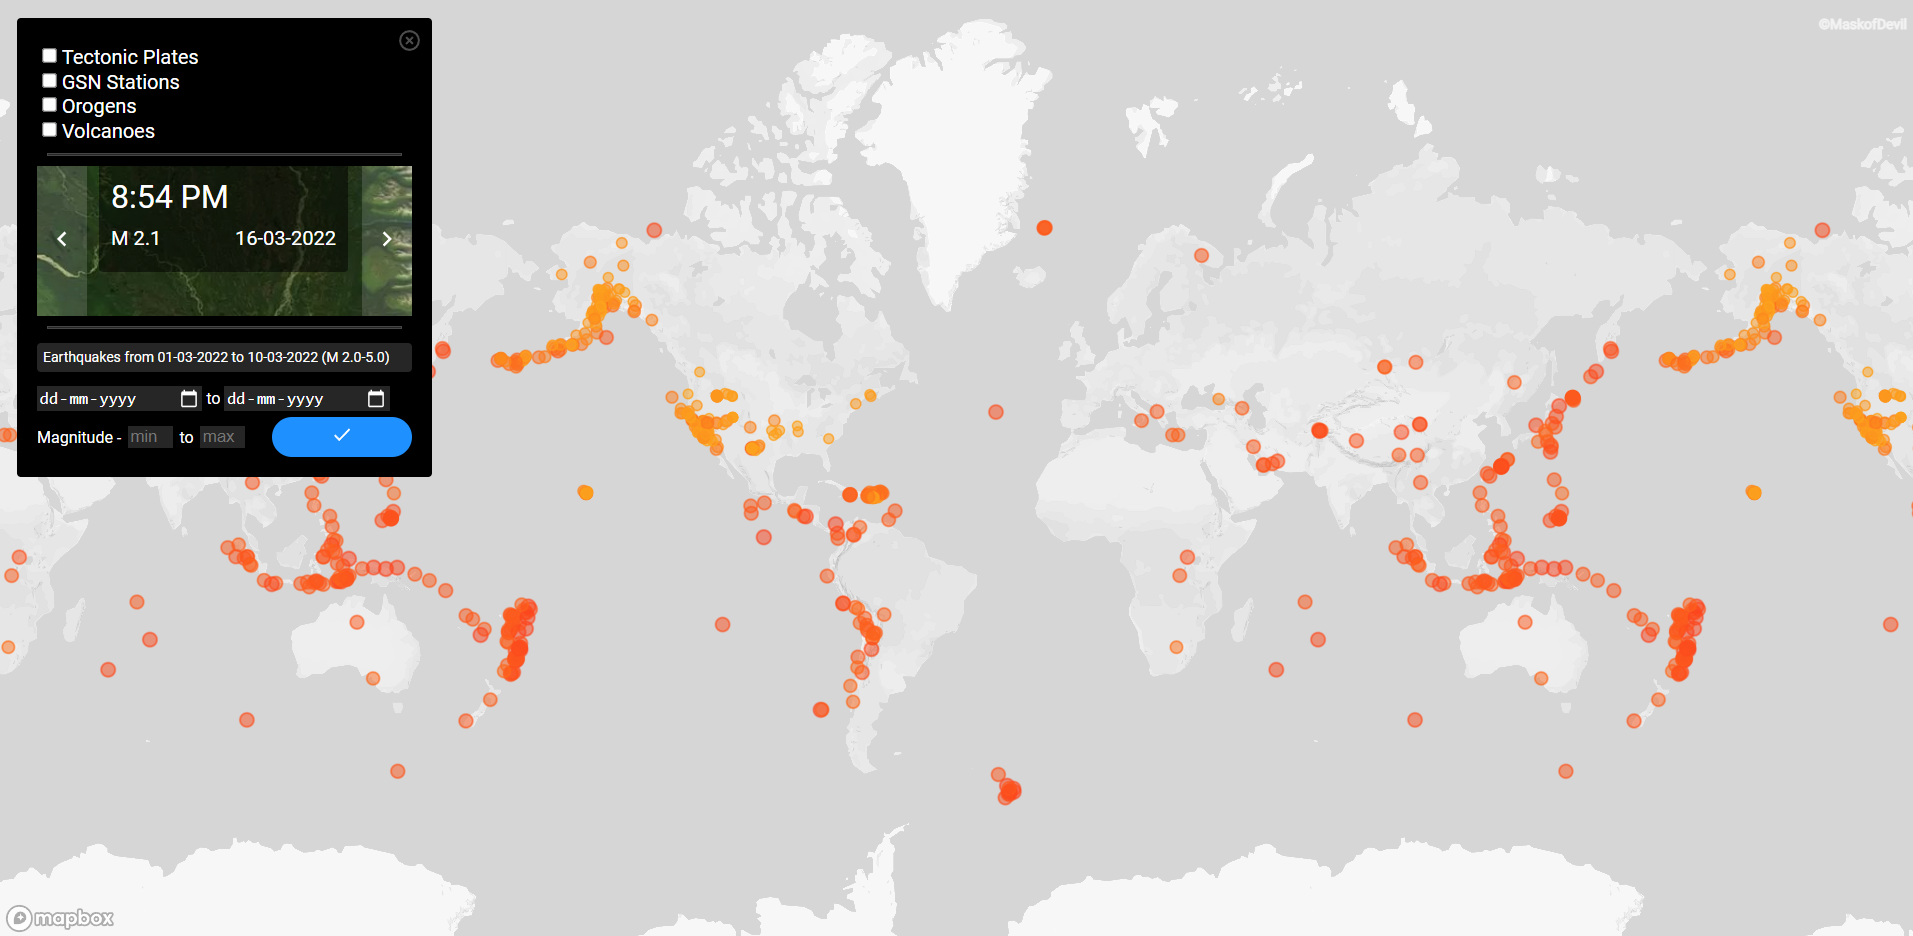
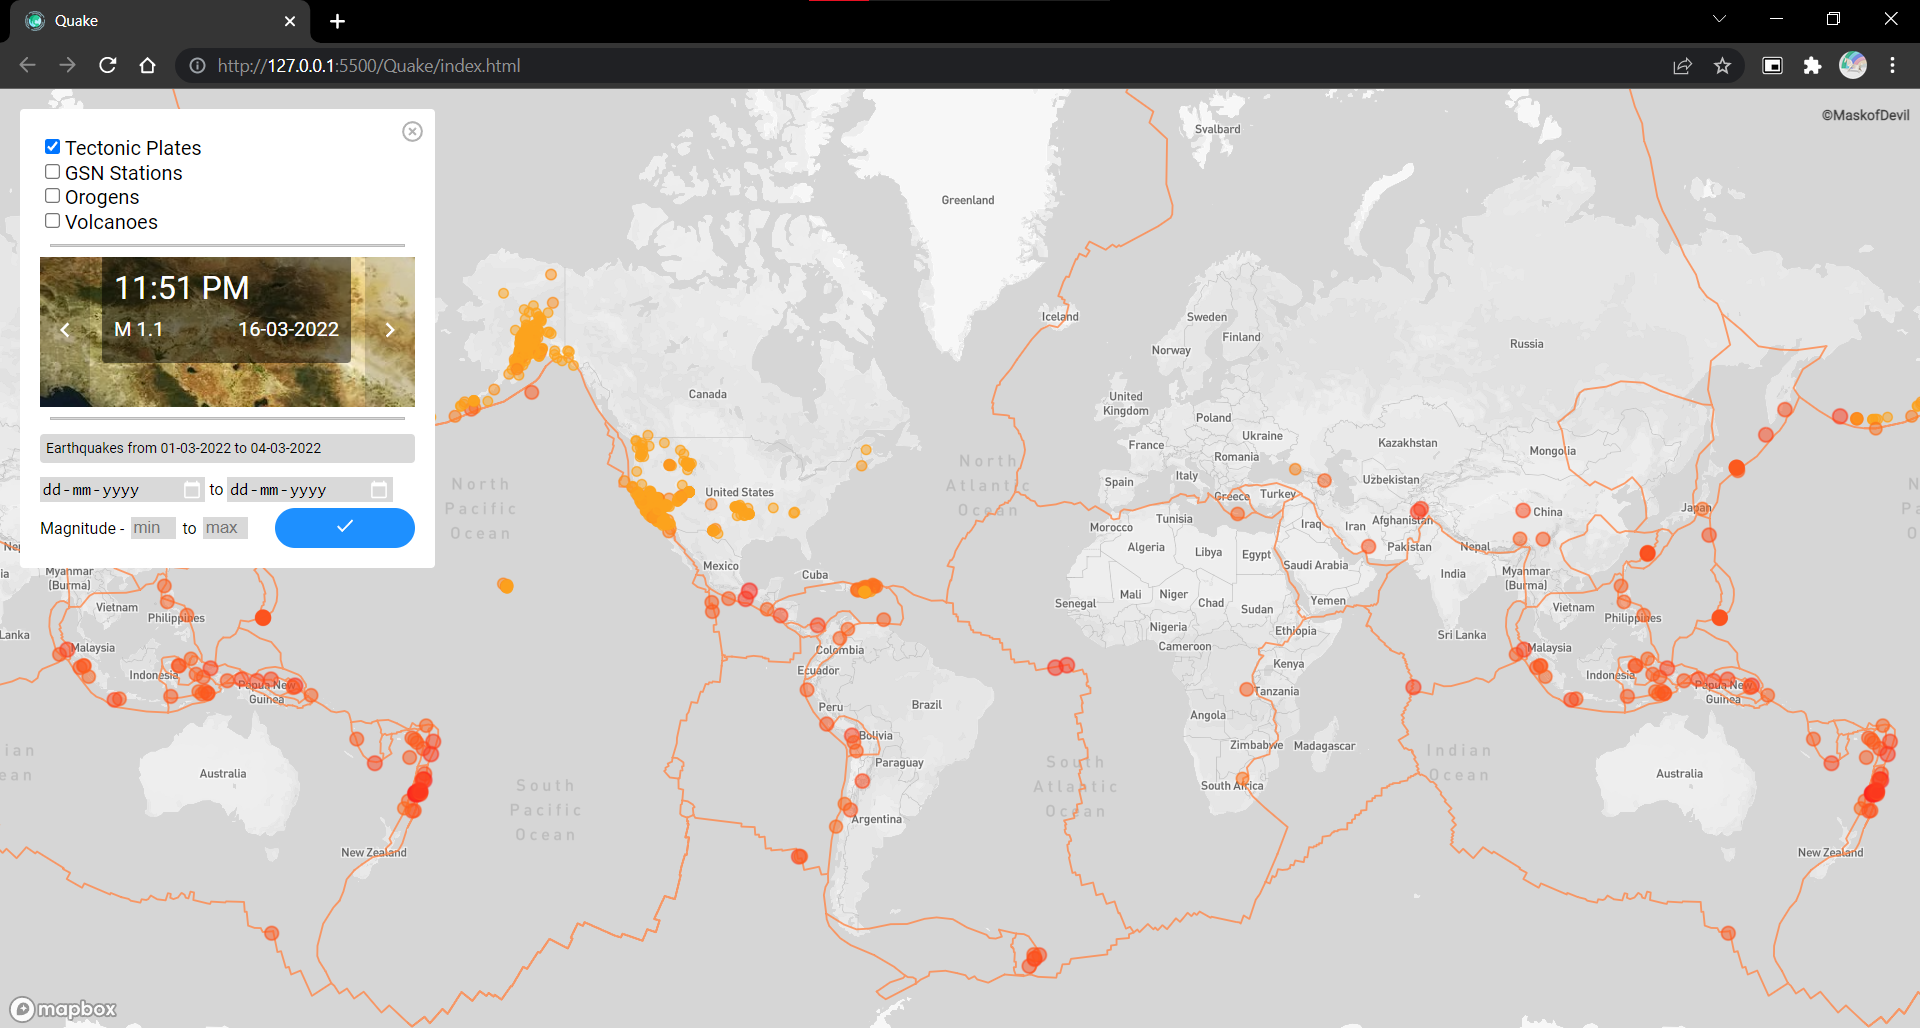
fix: :bug: Major bug fixes

diff --git a/src/js/map.js b/src/js/map.js
@@ -98,7 +98,7 @@ function addEarthquakes(geojson, showTimeAgo) {
 
         let coordinates = e.features[0].geometry.coordinates.slice()
         let mag = e.features[0].properties.mag
-        let place = e.features[0].properties.place
+        let place = e.features[0].properties.place ? e.features[0].properties.place : ''
         let time = new Date(e.features[0].properties.time)
 
         while (Math.abs(e.lngLat.lng - coordinates[0]) > 180) {
@@ -108,7 +108,7 @@ function addEarthquakes(geojson, showTimeAgo) {
         if (showTimeAgo) {
             popup.setLngLat(coordinates).setHTML(`<div class="popup"><h2 class="popup-mag">${mag.toFixed(1)}</h2><span class="popup-text">${place}<br><strong>(${moment(time).fromNow()})</strong></span></div>`).addTo(map)
         } else {
-            popup.setLngLat(coordinates).setHTML(`<div class="popup"><h2 class="popup-mag">${mag.toFixed(1)}</h2><span class="popup-text">${place}<br>${moment(time)}</strong></span></div>`).addTo(map)
+            popup.setLngLat(coordinates).setHTML(`<div class="popup"><h2 class="popup-mag">${mag.toFixed(1)}</h2><span class="popup-text">${place}<br><strong>${moment(time).format('dddd LT')}</strong><strong>${moment(time).format('DD-MM-YYYY')}</strong></span></div>`).addTo(map)
         }
     })
 
@@ -252,7 +252,19 @@ map.on('idle', () => {
         div.appendChild(input)
         div.appendChild(label)
 
-        div.addEventListener('click', (e) => {
+        input.addEventListener('click', (e) => {
+            let clickedLayer = label.textContent
+
+            let visibility = map.getLayoutProperty(clickedLayer, 'visibility')
+
+            if (visibility === 'visible') {
+                map.setLayoutProperty(clickedLayer, 'visibility', 'none')
+            } else {
+                map.setLayoutProperty(clickedLayer, 'visibility', 'visible')
+            }
+        })
+
+        label.addEventListener('click', (e) => {
             let clickedLayer = label.textContent
             e.preventDefault()
             e.stopPropagation()

diff --git a/index.html b/index.html
@@ -25,9 +25,6 @@
             <section>
             </section>
             <div class="partition"></div>
-            <!-- <section>
-            </section>
-            <hr> -->
             <div class="carousel" data-carousel>
                 <button class="carousel-button prev" data-carousel-button="prev">
                     <svg xmlns="http://www.w3.org/2000/svg" height="24px" viewBox="0 0 24 24" width="24px" fill="#fff">
@@ -64,7 +61,7 @@
                     to
                     <input id="max-mag" name="max" type="number" placeholder="max" step="any">
                     <button id="submit" type="submit">
-                        <svg xmlns="http://www.w3.org/2000/svg" height="18px" viewBox="0 0 24 24" width="18px" fill="currentColor">
+                        <svg xmlns="http://www.w3.org/2000/svg" height="18px" viewBox="0 0 24 24" width="18px" fill="#fff">
                             <path d="M0 0h24v24H0z" fill="none" />
                             <path d="M9 16.2L4.8 12l-1.4 1.4L9 19 21 7l-1.4-1.4L9 16.2z" />
                         </svg>

diff --git a/src/css/style.css b/src/css/style.css
@@ -2,10 +2,10 @@
 
 :root
 {
-    --theme-one: #fff;
-    --theme-two: #000;
-    --theme-three: #ffffff4d;
-    --theme-four: #ffffff26;
+    --theme-one: #000;
+    --theme-two: #fff;
+    --theme-three: rgba(0, 0, 0, 0.3);
+    --theme-four: rgba(0, 0, 0, 0.15);
     --blue-one: #1e90ff;
     --blue-two: #1e80ff;
 }
@@ -15,7 +15,7 @@ body
     margin: 0;
     padding: 0;
     font-family: 'Roboto', sans-serif;
-    background-color: var(--blue-one);
+    background-color: var(--theme-two);
 }
 
 svg
@@ -62,7 +62,7 @@ button:hover
     z-index: 9999;
     height: 100vh;
     width: 100vw;
-    background-color: var(--theme-one);
+    background-color: var(--theme-two);
     display: flex;
     justify-content: center;
     align-items: center;
